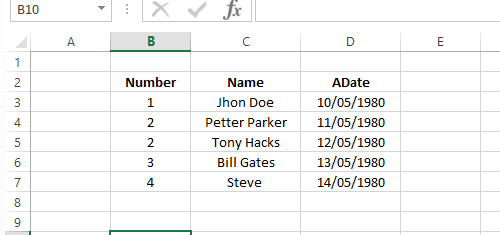
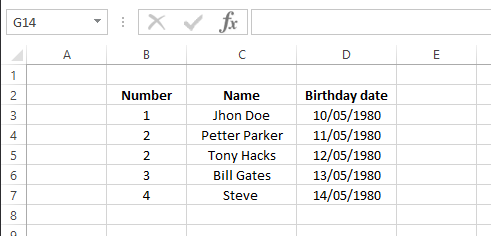
Added documentation

Changed region(s): [[0.0, 0.0, 1.0, 1.0]]

diff --git a/docs/index.html b/docs/index.html
@@ -1,13 +1,111 @@
 <!DOCTYPE html>
 <html>
 <head>
-    <title>Markdown File</title>
+    <title>ClosedXML.TableReader</title>
 </head>
 <body>
 
-    <h1 id="markdown-file">Markdown File</h1>
+    <h1 id="closedxml.tablereader">ClosedXML.TableReader</h1>
 <p>ClosedXml is an amazing .NET library to manage Excel files based on <a href="https://es.wikipedia.org/wiki/Office_Open_XML">OpenXML Standard</a>. This component drastically reduces the complexity of working with <a href="https://www.microsoft.com/en-us/download/details.aspx?id=30425">Open XML SDK</a></p>
-<p>This library extends ClosedXML to read Excel tables in typed way. You can read all or some columns, apply transformation rules for each field, refer column by title or name using DataAnotations.</p>
+<p><strong>ClosedXML.TableReader</strong> extends ClosedXML to read Excel tables in typed way. You can read all or some columns, apply transformation rules for each field, refer column by title or name using DataAnotations.</p>
+  <br>
+<h2 id="read-table-using-conventions">Read Table (using conventions)</h2>
+<p>By default, library read table from first column and row used and assume that columns titles are in first row.
+For this sample we have next Excel table:</p>
+<p><img src="./images/SimpleTable.png?raw=true" alt="" /></p>
+<p>We define this VO class:</p>
+<pre><code class="language-csharp">
+  public class SimpleTable
+    {
+        public int Number { get; set; } 
+
+        public string Name { get; set; }
+
+        public DateTime ADate { get; set; }
+
+    }
+</code></pre>
+<p>And we could read table</p>
+<pre><code class="language-csharp">  byte[] file = System.IO.File.ReadAllBytes([ExcelPath])
+
+            var wb = new ClosedXML.Excel.XLWorkbook(new MemoryStream(file));
+
+            IEnumerable&lt;SimpleTable&gt; data = wb.ReadTable&lt;SimpleTable&gt;(1); // indicate excel sheet
+</code></pre>
+<blockquote>
+<p>We have to indicate number of sheet where is the table. (First Excel document sheet is number 1)</p>
+</blockquote>
+<p><br>  <br></p>
+<h2 id="data-anotations">Data Anotations</h2>
+<p>Title columns used to more complex that <em>Number, Name or ADate</em> and might not match with our properties name conventions. In this case can use DataAnnotations to pair column with object field.</p>
+<p>For example, next Excel shows a new column with title <em>Birthday date</em>
+<img src="./images/DataAnotations.png?raw=true" alt="" /></p>
+<p>We pair with field using standard DisplayName Annotation</p>
+<pre><code class="language-csharp">
+  public class SimpleTable
+    {
+        public int Number { get; set; } 
+
+        public string Name { get; set; }
+
+        [DisplayName(&quot;Birthday date&quot;)]
+        public DateTime ADate { get; set; }
+
+    }
+</code></pre>
+  <br>
+<h4 id="use-anotations-to-read-table-without-title">Use anotations to read table without title</h4>
+<p>We can used DataAnnotations to refer columns without titles, in this case we have to use builtin custom annotation <strong>ColumnName</strong></p>
+<p>For Example, for this Excel Table
+<img src="./images/SimpleTableWithOutTitles.png?raw=true" alt="" /></p>
+<p>We have to modify VO class like that</p>
+<pre><code class="language-csharp">
+  public class SimpleTable
+    {
+        [ColumnName(&quot;B&quot;)]
+        public int Number { get; set; } 
+
+        [ColumnName(&quot;C&quot;)]
+        public string Name { get; set; }
+
+        [ColumnName(&quot;D&quot;)]
+        public DateTime ADate { get; set; }
+
+    }
+</code></pre>
+  <br>
+<p><strong><em>Don't forget say library that first row isn't a title in ReadOptions</em></strong></p>
+<pre><code class="language-csharp">  var data = wb.ReadTable&lt;SimpleTable&gt;(1,
+                new ReadOptions()
+                {
+                    TitlesInFirstRow = false
+                });
+</code></pre>
+<h2 id="data-transformations">Data transformations</h2>
+<p>Optionally, we can make transformations over data before populate in memory object. We can indicate an <em>Expression (per field)</em> for transform any data from Excel cell to adapt to target type</p>
+<p><img src="./images/Transformations.png?raw=true" alt="" /></p>
+<p>For example, we have column selected in Excel document with a ‘x’ mark and we want transform this data in Boolean value.</p>
+<pre><code class="language-csharp">
+            //Example with trasnformations
+            Expression&lt;Func&lt;string, DateTime&gt;&gt; fConvertData = _ =&gt; DateTime.Now.AddDays(10);
+            Expression&lt;Func&lt;string, bool&gt;&gt; fSelectToBool = c =&gt; c == &quot;x&quot;;
+
+            var ls = wb.ReadTable&lt;Models.TableWithHeadersAndBoleanConversion&gt;(1,
+                new ReadOptions()
+                {
+                    TitlesInFirstRow = true,
+                    Converters = new Dictionary&lt;string, LambdaExpression&gt;()
+                    {
+                        {nameof(SimpleTable.ADate),fConvertData },
+                        {nameof(SimpleTable.Selected),fSelectToBool },
+                    }
+                });
+</code></pre>
+<p>As show, we can transform any value from source.</p>
+<ul>
+<li>Expression are defined in <strong>ReadOptions.Converters</strong> dictionary.</li>
+<li>Dictionary entry key should be object field name, obviusly we can use <em>nameof</em>  for that</li>
+</ul>
 
 
 </body>

diff --git a/docs/Index.md b/docs/Index.md
@@ -2,6 +2,127 @@
 
 ClosedXml is an amazing .NET library to manage Excel files based on [OpenXML Standard](https://es.wikipedia.org/wiki/Office_Open_XML). This component drastically reduces the complexity of working with [Open XML SDK](https://www.microsoft.com/en-us/download/details.aspx?id=30425) 
 
-This library extends ClosedXML to read Excel tables in typed way. You can read all or some columns, apply transformation rules for each field, refer column by title or name using DataAnotations.
+**ClosedXML.TableReader** extends ClosedXML to read Excel tables in typed way. You can read all or some columns, apply transformation rules for each field, refer column by title or name using DataAnotations.
+
+  <br>
+
+## Read Table (using conventions)
+
+By default, library read table from first column and row used and assume that columns titles are in first row. 
+For this sample we have next Excel table:
+
+![](./images/SimpleTable.png?raw=true)
+
+We define this VO class:
+```csharp 
+
+  public class SimpleTable
+    {
+        public int Number { get; set; } 
+
+        public string Name { get; set; }
+
+        public DateTime ADate { get; set; }
+
+    }
+```
+And we could read table
+```csharp 
+  byte[] file = System.IO.File.ReadAllBytes([ExcelPath])
+
+            var wb = new ClosedXML.Excel.XLWorkbook(new MemoryStream(file));
+
+            IEnumerable<SimpleTable> data = wb.ReadTable<SimpleTable>(1); // indicate excel sheet
+```
+>We have to indicate number of sheet where is the table. (First Excel document sheet is number 1)  
+
+ 
+  
+  <br>  <br>
+
+## Data Anotations
+
+Title columns used to more complex that *Number, Name or ADate* and might not match with our properties name conventions. In this case can use DataAnnotations to pair column with object field. 
+
+For example, next Excel shows a new column with title *Birthday date*
+![](./images/DataAnotations.png?raw=true)
+
+We pair with field using standard DisplayName Annotation 
+```csharp 
+
+  public class SimpleTable
+    {
+        public int Number { get; set; } 
+
+        public string Name { get; set; }
+
+        [DisplayName("Birthday date")]
+        public DateTime ADate { get; set; }
+
+    }
+```
+  <br>
+
+#### Use anotations to read table without title
+We can used DataAnnotations to refer columns without titles, in this case we have to use builtin custom annotation **ColumnName**
+
+For Example, for this Excel Table
+![](./images/SimpleTableWithOutTitles.png?raw=true)
+
+We have to modify VO class like that
+```csharp 
+
+  public class SimpleTable
+    {
+        [ColumnName("B")]
+        public int Number { get; set; } 
+
+        [ColumnName("C")]
+        public string Name { get; set; }
+
+        [ColumnName("D")]
+        public DateTime ADate { get; set; }
+
+    }
+```
+  <br>
+
+**_Don't forget say library that first row isn't a title in ReadOptions_**
+
+```csharp
+  var data = wb.ReadTable<SimpleTable>(1,
+                new ReadOptions()
+                {
+                    TitlesInFirstRow = false
+                });
+```
+
+## Data transformations
+
+Optionally, we can make transformations over data before populate in memory object. We can indicate an *Expression (per field)* for transform any data from Excel cell to adapt to target type
 
 
+![](./images/Transformations.png?raw=true)
+
+For example, we have column selected in Excel document with a ‘x’ mark and we want transform this data in Boolean value.
+```csharp
+
+            //Example with trasnformations
+            Expression<Func<string, DateTime>> fConvertData = _ => DateTime.Now.AddDays(10);
+            Expression<Func<string, bool>> fSelectToBool = c => c == "x";
+
+            var ls = wb.ReadTable<Models.TableWithHeadersAndBoleanConversion>(1,
+                new ReadOptions()
+                {
+                    TitlesInFirstRow = true,
+                    Converters = new Dictionary<string, LambdaExpression>()
+                    {
+                        {nameof(SimpleTable.ADate),fConvertData },
+                        {nameof(SimpleTable.Selected),fSelectToBool },
+                    }
+                });
+```
+
+As show, we can transform any value from source. 
+- Expression are defined in **ReadOptions.Converters** dictionary. 
+- Dictionary entry key should be object field name, obviusly we can use *nameof*  for that
